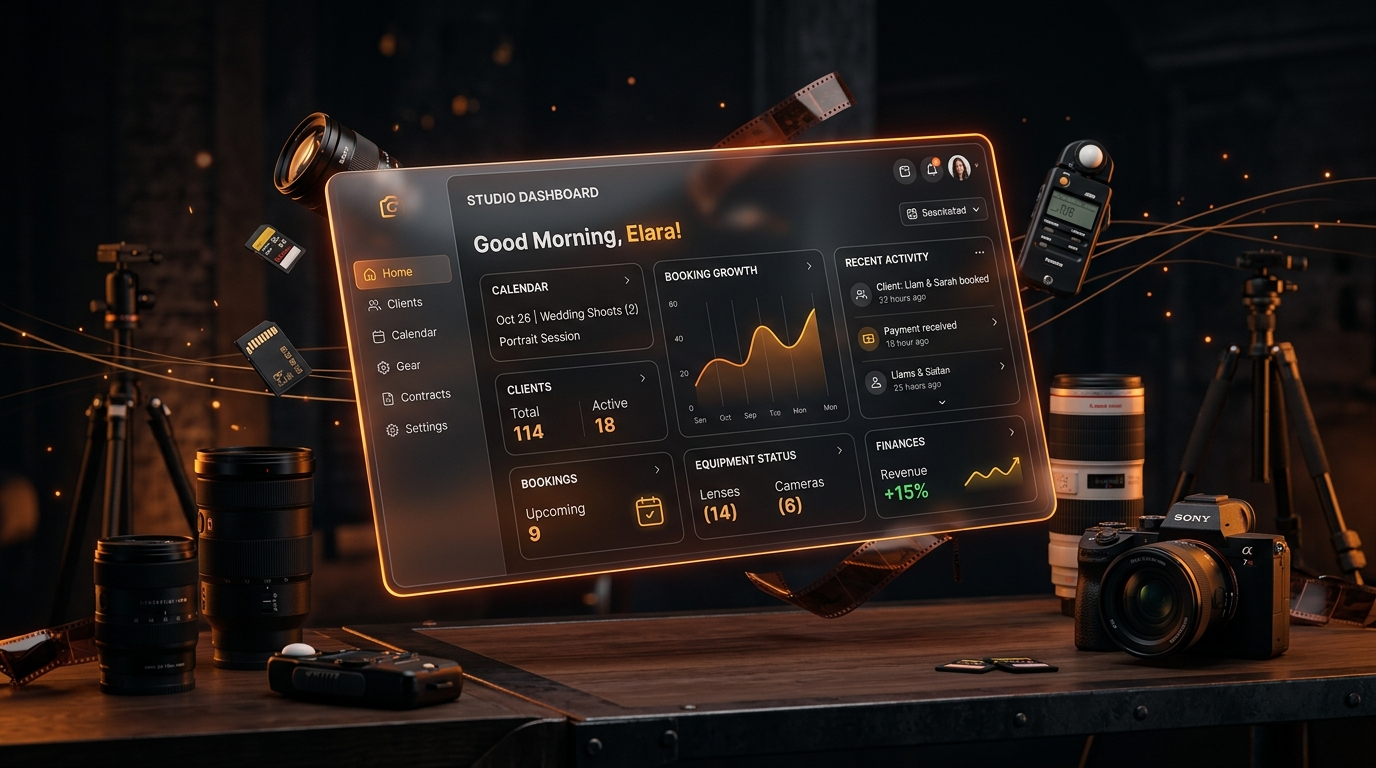
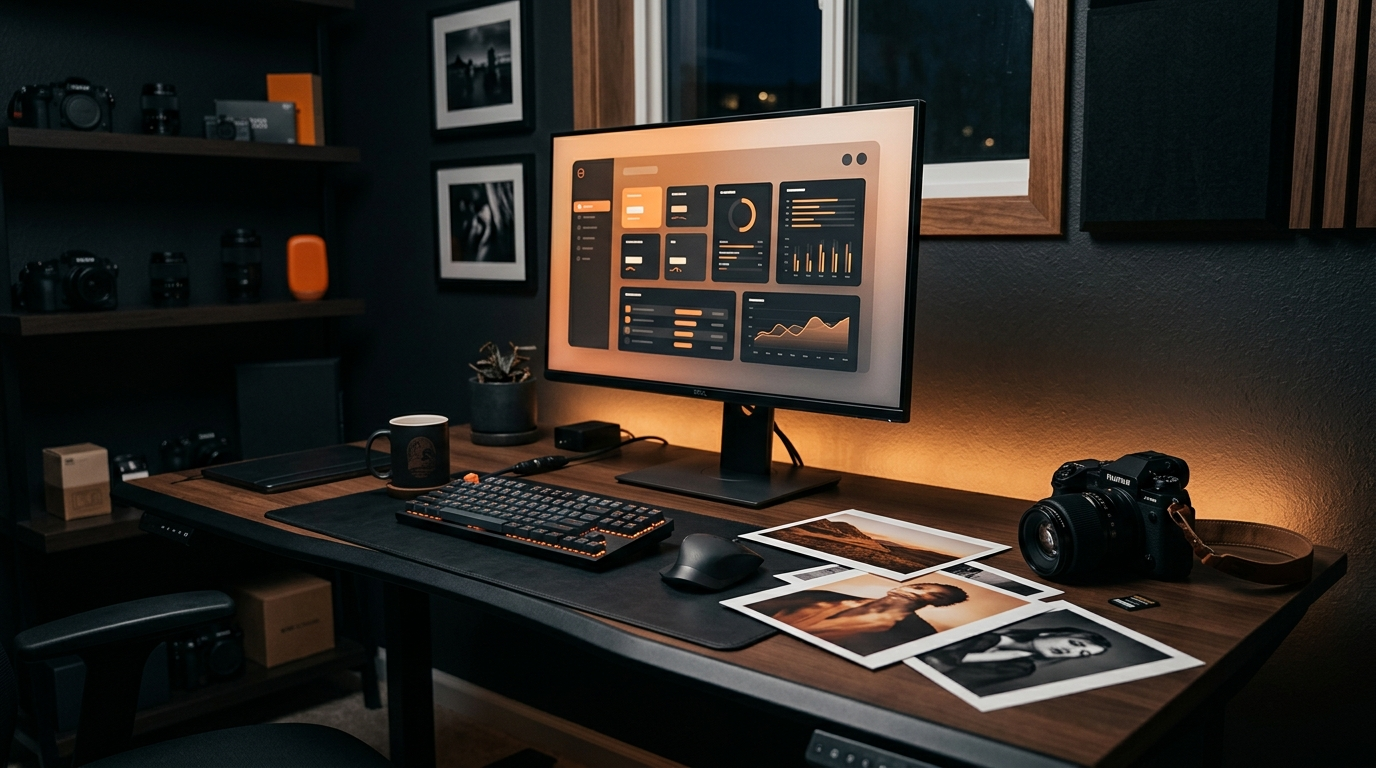
style: remove inputs de email e senha da landing page deixando apenas botao de CTA

diff --git a/app/page.tsx b/app/page.tsx
@@ -1,6 +1,6 @@
 "use client";
 
-import { useState, useEffect } from "react";
+import { useEffect } from "react";
 import { useRouter } from "next/navigation";
 import { useSession } from "@/lib/auth-client";
 import { Camera, ArrowRight, CheckCircle2 } from "lucide-react";
@@ -9,9 +9,6 @@ import Image from "next/image";
 export default function Home() {
   const router = useRouter();
   const { data: session, isPending } = useSession();
-  const [email, setEmail] = useState("");
-  const [password, setPassword] = useState("");
-  const [emailError, setEmailError] = useState("");
 
   useEffect(() => {
     if (!isPending && session?.user) {
@@ -27,28 +24,7 @@ export default function Home() {
     );
   }
 
-  const validateEmail = (val: string) => {
-    // Regex rigoroso para validação de email
-    const regex = /^[a-zA-Z0-9._%+-]+@[a-zA-Z0-9.-]+\.[a-zA-Z]{2,}$/;
-    if (!val) {
-      return "O email é obrigatório";
-    } else if (!regex.test(val)) {
-      return "Formato de email inválido";
-    }
-    return "";
-  };
 
-  const handleStart = (e: React.FormEvent) => {
-    e.preventDefault();
-    const error = validateEmail(email);
-    if (error) {
-      setEmailError(error);
-      return;
-    }
-    // Supondo que vai redirecionar para o sign-up passando o email na querystring ou localStorage
-    // Para simplificar, manda para o sign-up. 
-    router.push(`/sign-up?email=${encodeURIComponent(email)}`);
-  };
 
   return (
     <main className="min-h-screen bg-pw-bg text-pw-text flex flex-col relative overflow-hidden">
@@ -104,41 +80,16 @@ export default function Home() {
             Abandone as planilhas. Controle pedidos, agenda de produção, estoque e financeiro em uma plataforma premium desenhada para o seu balcão.
           </p>
 
-          {/* Quick Sign-up Form */}
-          <form onSubmit={handleStart} className="w-full max-w-md bg-pw-surface/50 p-4 rounded-xl border border-pw-border backdrop-blur-md">
-            <div className="flex flex-col gap-3">
-              <div>
-                <input
-                  type="email"
-                  placeholder="Seu melhor e-mail"
-                  value={email}
-                  onChange={(e) => {
-                    setEmail(e.target.value);
-                    if (emailError) setEmailError("");
-                  }}
-                  className={`input-field w-full ${emailError ? 'border-pw-danger focus:border-pw-danger focus:ring-pw-danger/20' : ''}`}
-                />
-                {emailError && <span className="text-xs text-pw-danger mt-1 block">{emailError}</span>}
-              </div>
-              
-              <div>
-                <input
-                  type="password"
-                  placeholder="Crie uma senha (qualquer uma por enquanto)"
-                  value={password}
-                  onChange={(e) => setPassword(e.target.value)}
-                  className="input-field w-full"
-                />
-              </div>
-              
-              <button type="submit" className="btn-primary w-full py-3 text-base flex items-center justify-center gap-2 group mt-2">
-                Começar agora
-                <ArrowRight size={18} className="group-hover:translate-x-1 transition-transform" />
-              </button>
-            </div>
-          </form>
+          {/* Call to Action Button */}
+          <button 
+            onClick={() => router.push('/sign-up')} 
+            className="btn-primary w-full max-w-sm py-3 px-6 text-base flex items-center justify-center gap-2 group shadow-lg shadow-pw-accent/20"
+          >
+            Começar agora
+            <ArrowRight size={18} className="group-hover:translate-x-1 transition-transform" />
+          </button>
 
-          <div className="flex items-center gap-6 mt-8 text-sm text-pw-text-muted">
+          <div className="flex items-center gap-6 mt-6 text-sm text-pw-text-muted">
             <div className="flex items-center gap-2"><CheckCircle2 size={16} className="text-pw-success" /> Sem cartão de crédito</div>
             <div className="flex items-center gap-2"><CheckCircle2 size={16} className="text-pw-success" /> Setup em 2 minutos</div>
           </div>
